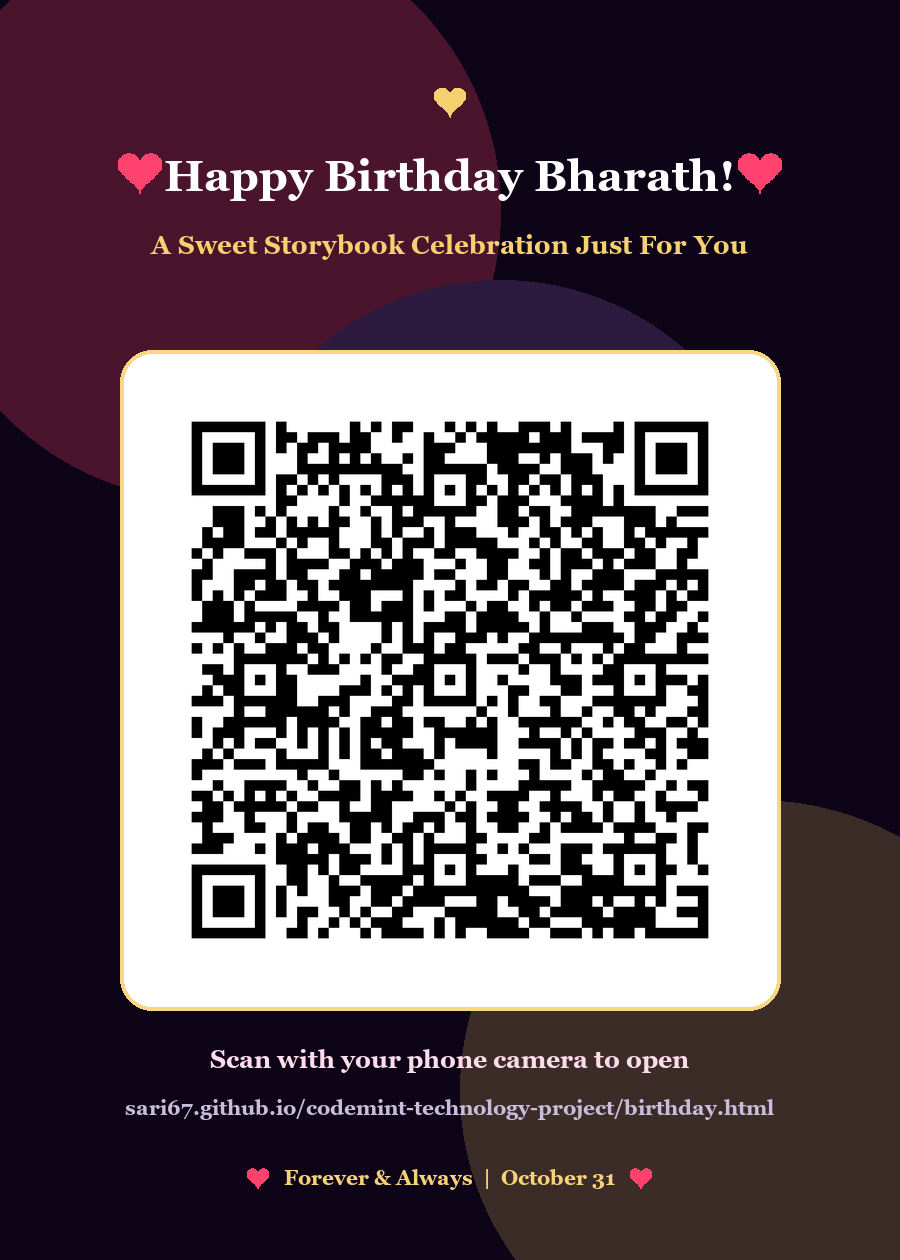
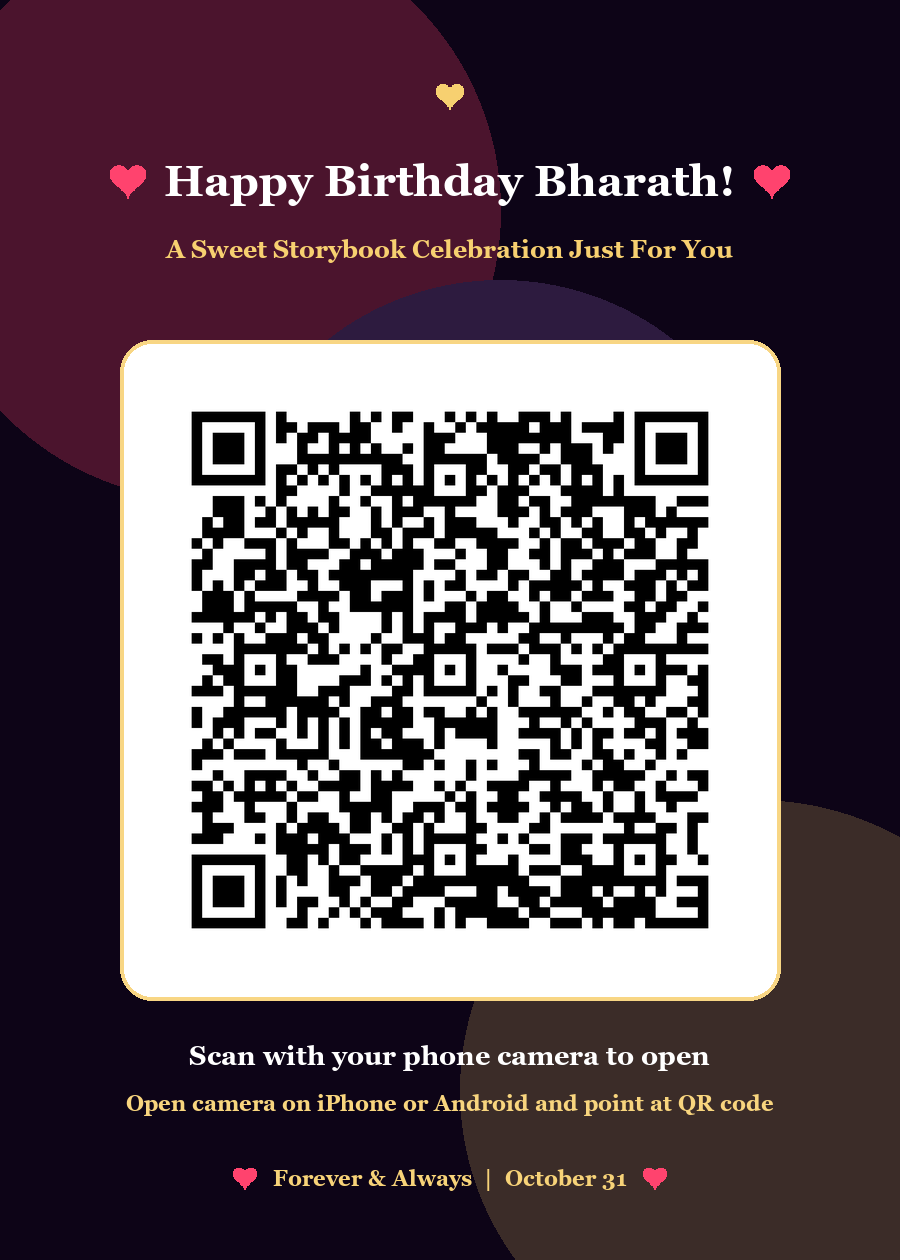
Hide GitHub link and ensure no music info on Bharath QR presentation card

diff --git a/generate_qr.py b/generate_qr.py
@@ -4,6 +4,7 @@ import os
 import shutil
 import math
 
+# Target website URL encoded into the QR code
 url = "https://sari67.github.io/codemint-technology-project/birthday.html"
 
 # 1. Generate High-Res Standard QR Code (Clean & 100% Scannable)
@@ -21,10 +22,10 @@ qr_output_path = os.path.abspath("birthday_qr_code.png")
 qr_img.save(qr_output_path)
 print(f"Standard QR Code generated: {qr_output_path} ({qr_img.size})")
 
-# 2. Generate a Cute, Romantic Presentation Card
+# 2. Generate a Cute, Romantic Presentation Card (GitHub Link and Music Info Hidden)
 card_w = 900
 card_h = 1260
-card = Image.new("RGBA", (card_w, card_h), (13, 4, 23, 255)) # Dark romantic #0d0417
+card = Image.new("RGBA", (card_w, card_h), (13, 4, 23, 255)) # Romantic dark midnight #0d0417
 
 # Ambient glowing orbs
 glow = Image.new("RGBA", (card_w, card_h), (0, 0, 0, 0))
@@ -39,10 +40,16 @@ draw = ImageDraw.Draw(card)
 box_w = 660
 box_h = 660
 box_x = (card_w - box_w) // 2
-box_y = 350
-draw.rounded_rectangle([box_x, box_y, box_x + box_w, box_y + box_h], radius=32, fill=(255, 255, 255, 255), outline=(247, 208, 112, 220), width=4)
+box_y = 340
+draw.rounded_rectangle(
+    [box_x, box_y, box_x + box_w, box_y + box_h],
+    radius=32,
+    fill=(255, 255, 255, 255),
+    outline=(247, 208, 112, 220),
+    width=4
+)
 
-# Place QR code
+# Place QR code centered inside white frame
 qr_resized = qr_img.resize((580, 580), Image.Resampling.LANCZOS)
 qr_x = (card_w - 580) // 2
 qr_y = box_y + (box_h - 580) // 2
@@ -54,53 +61,63 @@ def draw_heart(d, cx, cy, size, color):
     for t_deg in range(0, 360, 4):
         t = math.radians(t_deg)
         x = 16 * (math.sin(t) ** 3)
-        y = -(13 * math.cos(t) - 5 * math.cos(2*t) - 2 * math.cos(3*t) - math.cos(4*t))
+        y = -(13 * math.cos(t) - 5 * math.cos(2 * t) - 2 * math.cos(3 * t) - math.cos(4 * t))
         points.append((cx + x * (size / 16.0), cy + y * (size / 16.0)))
     d.polygon(points, fill=color)
 
-# Draw decorative hearts around header
-draw_heart(draw, 140, 170, 22, (255, 67, 110, 255))
-draw_heart(draw, 760, 170, 22, (255, 67, 110, 255))
-draw_heart(draw, 450, 100, 16, (247, 208, 112, 255))
-
-# Load clean fonts
+# Fonts configuration
 font_title = None
 font_sub = None
 font_inst = None
+font_sub_inst = None
 font_footer = None
 
 for font_path in [
     "C:/Windows/Fonts/georgiab.ttf",
     "C:/Windows/Fonts/arialbd.ttf",
+    "C:/Windows/Fonts/arial.ttf",
 ]:
     if os.path.exists(font_path):
         try:
             font_title = ImageFont.truetype(font_path, 44)
-            font_sub = ImageFont.truetype(font_path, 26)
-            font_inst = ImageFont.truetype(font_path, 25)
-            font_footer = ImageFont.truetype(font_path, 21)
+            font_sub = ImageFont.truetype(font_path, 25)
+            font_inst = ImageFont.truetype(font_path, 27)
+            font_sub_inst = ImageFont.truetype(font_path, 22)
+            font_footer = ImageFont.truetype(font_path, 22)
             break
         except Exception:
             pass
 
 if not font_title:
-    font_title = ImageFont.load_default()
-    font_sub = ImageFont.load_default()
-    font_inst = ImageFont.load_default()
-    font_footer = ImageFont.load_default()
+    font_title = font_sub = font_inst = font_sub_inst = font_footer = ImageFont.load_default()
 
 def draw_centered(text, y, font, fill):
     bbox = draw.textbbox((0, 0), text, font=font)
     tw = bbox[2] - bbox[0]
     draw.text(((card_w - tw) // 2, y), text, font=font, fill=fill)
+    return tw
 
-draw_centered("Happy Birthday Bharath!", 150, font_title, (255, 255, 255, 255))
-draw_centered("A Sweet Storybook Celebration Just For You", 230, font_sub, (247, 208, 112, 255))
+# 1. Top Decorative Golden Heart
+draw_heart(draw, card_w // 2, 95, 14, (247, 208, 112, 255))
 
-draw_centered("Scan with your phone camera to open", 1045, font_inst, (255, 220, 235, 255))
-draw_centered("sari67.github.io/codemint-technology-project/birthday.html", 1095, font_footer, (200, 190, 220, 255))
+# 2. Header Title with Flanking Pink Hearts
+title_text = "Happy Birthday Bharath!"
+t_bbox = draw.textbbox((0, 0), title_text, font=font_title)
+tw = t_bbox[2] - t_bbox[0]
+tx = (card_w - tw) // 2
+ty = 155
+draw.text((tx, ty), title_text, font=font_title, fill=(255, 255, 255, 255))
+draw_heart(draw, tx - 36, ty + 24, 18, (255, 67, 110, 255))
+draw_heart(draw, tx + tw + 36, ty + 24, 18, (255, 67, 110, 255))
 
-# Footer with cleanly framed hearts
+# 3. Subtitle
+draw_centered("A Sweet Storybook Celebration Just For You", 235, font_sub, (247, 208, 112, 255))
+
+# 4. Instructions (GitHub Link and Music Information Hidden)
+draw_centered("Scan with your phone camera to open", 1040, font_inst, (255, 255, 255, 255))
+draw_centered("Open camera on iPhone or Android and point at QR code", 1090, font_sub_inst, (247, 208, 112, 230))
+
+# 5. Romantic Footer with Hearts
 footer_txt = "Forever & Always  |  October 31"
 bbox_f = draw.textbbox((0, 0), footer_txt, font=font_footer)
 tw_f = bbox_f[2] - bbox_f[0]
@@ -108,16 +125,17 @@ fx = (card_w - tw_f) // 2
 fy = 1165
 
 draw.text((fx, fy), footer_txt, font=font_footer, fill=(247, 208, 112, 240))
-draw_heart(draw, fx - 26, fy + 12, 11, (255, 67, 110, 255))
-draw_heart(draw, fx + tw_f + 26, fy + 12, 11, (255, 67, 110, 255))
+draw_heart(draw, fx - 28, fy + 12, 12, (255, 67, 110, 255))
+draw_heart(draw, fx + tw_f + 28, fy + 12, 12, (255, 67, 110, 255))
 
+# Save romantic QR presentation card
 card_output_path = os.path.abspath("birthday_qr_card.png")
 card.save(card_output_path)
 print(f"Romantic QR Presentation Card generated: {card_output_path}")
 
-# Copy to artifacts directory
-artifact_dir = r"C:\Users\Sarika\.gemini\antigravity\brain\f7a88468-03c5-444d-872c-f24c5d80e7af"
-if os.path.exists(artifact_dir):
-    shutil.copy(qr_output_path, os.path.join(artifact_dir, "birthday_qr_code.png"))
-    shutil.copy(card_output_path, os.path.join(artifact_dir, "birthday_qr_card.png"))
-    print("Files successfully copied to artifact directory.")
+# Copy to conversation artifact directory if available
+current_artifact_dir = r"C:\Users\Sarika\.gemini\antigravity\brain\b7f77f99-5e28-469f-a23b-96613526af9d"
+if os.path.exists(current_artifact_dir):
+    shutil.copy(qr_output_path, os.path.join(current_artifact_dir, "birthday_qr_code.png"))
+    shutil.copy(card_output_path, os.path.join(current_artifact_dir, "birthday_qr_card.png"))
+    print("Files successfully copied to conversation artifact directory.")
